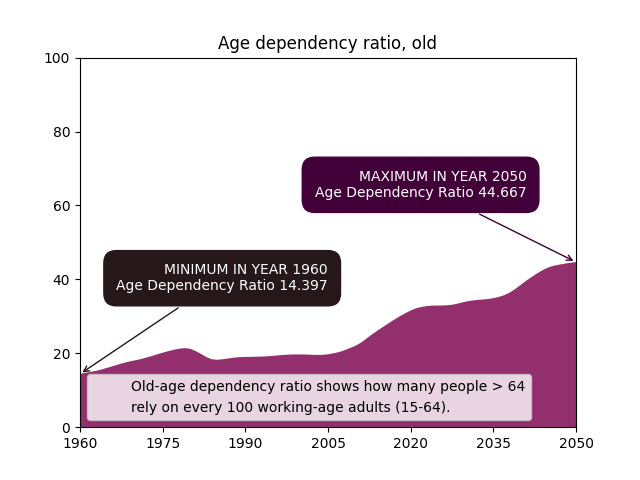
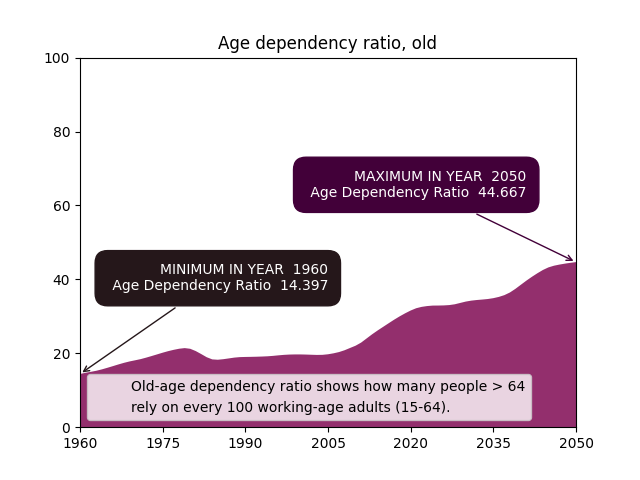
Urban a Rural population added

diff --git a/population.py b/population.py
@@ -5,7 +5,7 @@ import matplotlib.pyplot as plt                 # Import matplotlib for plotting
 from matplotlib.patches import Rectangle        # Import Rectangle for legend and description
 import numpy as np                              # Import numpy for numerical operations
 
-def annot_max(x,y, color, textcolor, ax=None):
+def annot_max(x,y, color, textcolor, desc, ax=None):
     """
     Annotates the maximum value in a data array (`y`) value on a Matplotlib plot (`ax`).
 
@@ -14,6 +14,7 @@ def annot_max(x,y, color, textcolor, ax=None):
         y (numpy.ndarray): The y-axis data array (corresponding values).
         color (str): The color for the annotation box and arrow.
         textcolor (str): The color for the annotation text.
+        desc (str): 
         ax (matplotlib.axes._axes.Axes, optional): The Matplotlib axes object for the plot.
             If not provided, the current axes (plt.gca()) is used.
 
@@ -28,7 +29,7 @@ def annot_max(x,y, color, textcolor, ax=None):
 
     # Format the annotation text including the year with the maximum value
     # and the corresponding age dependency ratio
-    text= "MAXIMUM IN YEAR {}\nAge Dependency Ratio {:.3f}".format(xmax, ymax)
+    text= "MAXIMUM IN YEAR  {}\n {}  {:.3f}".format(xmax, desc, ymax)
 
     # Check if an axes object (ax) is provided. If not, retrieve the current axes.
     if not ax:
@@ -51,8 +52,10 @@ def annot_max(x,y, color, textcolor, ax=None):
     ytext = ymax/100 + 0.25
 
     # Adjust the horizontal text position (xytext) based on the year (xmax)
-    if int(xmax) > 1990:
+    if int(xmax) > 1990 and ymax < 80:
         xytext = (0.9, ytext)  # Place text at the right side for better readability
+    elif int(xmax) > 1990 and ymax >= 80:
+        xytext = (0.9, ytext - 0.5)  # Place text at the right side for better readability
     else:
         xytext = (0.5, ytext)  # Center the text for years before 1991
 
@@ -60,7 +63,7 @@ def annot_max(x,y, color, textcolor, ax=None):
     ax.annotate(text, xy=(xmax, ymax), xytext=xytext, **kw)
 
 
-def annot_min(x,y, color, textcolor, ax=None):
+def annot_min(x,y, color, textcolor, desc, ax=None):
     """
     Annotates the minimum value in a data array (`y`) on a Matplotlib plot (`ax`).
 
@@ -84,7 +87,7 @@ def annot_min(x,y, color, textcolor, ax=None):
 
     # Format the annotation text including the year with the minimum value
     # and the corresponding age dependency ratio
-    text= "MINIMUM IN YEAR {}\nAge Dependency Ratio {:.3f}".format(xmin, ymin)
+    text= "MINIMUM IN YEAR  {}\n {}  {:.3f}".format(xmin, desc, ymin)
 
     # Check if an axes object (ax) is provided. If not, retrieve the current axes.
     if not ax:
@@ -146,8 +149,9 @@ def plot_sp_pop_dpnd(df_czechia):
     extra = Rectangle((0, 0), 1, 1, fc="w", fill=False, edgecolor='none', linewidth=0)
     plt.legend([extra, extra],[text1, text2], loc='lower left')
 
-    annot_max(x_sp_pop_dpnd, y_sp_pop_dpnd, "#1D0200", "white")
-    annot_min(x_sp_pop_dpnd, y_sp_pop_dpnd, "#5A1807", "white")
+    desc = "Age Dependency Ratio"
+    annot_max(x_sp_pop_dpnd, y_sp_pop_dpnd, "#1D0200", "white", desc)
+    annot_min(x_sp_pop_dpnd, y_sp_pop_dpnd, "#5A1807", "white", desc)
 
     # Display the plot
     plt.show()
@@ -182,8 +186,9 @@ def plot_sp_pop_dpnd_ol(df_czechia):
     extra = Rectangle((0, 0), 1, 1, fc="w", fill=False, edgecolor='none', linewidth=0)
     plt.legend([extra, extra],[text1, text2], loc='lower left')
 
-    annot_max(x_sp_pop_dpnd_ol, y_sp_pop_dpnd_ol, "#420039", "white")
-    annot_min(x_sp_pop_dpnd_ol, y_sp_pop_dpnd_ol, "#25171A", "white")
+    desc = "Age Dependency Ratio"
+    annot_max(x_sp_pop_dpnd_ol, y_sp_pop_dpnd_ol, "#420039", "white", desc)
+    annot_min(x_sp_pop_dpnd_ol, y_sp_pop_dpnd_ol, "#25171A", "white", desc)
 
 
     # Display the plot
@@ -205,7 +210,7 @@ def plot_sp_pop_dpnd_yg(df_czechia):
 
     # Create the plot
     fig, ax = plt.subplots()
-    ax.stackplot(x_sp_pop_dpnd_yg, y_sp_pop_dpnd_yg, colors=["#7B904B"])
+    ax.stackplot(x_sp_pop_dpnd_yg, y_sp_pop_dpnd_yg, colors=["#768948"])
  
     # Set plot limits and labels
     ax.set_xlim(min(x_sp_pop_dpnd_yg), max(x_sp_pop_dpnd_yg))
@@ -219,8 +224,81 @@ def plot_sp_pop_dpnd_yg(df_czechia):
     extra = Rectangle((0, 0), 1, 1, fc="w", fill=False, edgecolor='none', linewidth=0)
     plt.legend([extra, extra],[text1, text2], loc='lower left')
 
-    annot_max(x_sp_pop_dpnd_yg, y_sp_pop_dpnd_yg, "#273B09", "white")
-    annot_min(x_sp_pop_dpnd_yg, y_sp_pop_dpnd_yg, "#393E41", "white")
+    desc = "Age Dependency Ratio"
+    annot_max(x_sp_pop_dpnd_yg, y_sp_pop_dpnd_yg, "#1E2F23", "white", desc)
+    annot_min(x_sp_pop_dpnd_yg, y_sp_pop_dpnd_yg, "#34623F", "white", desc)
+
+    # Display the plot
+    plt.show()
+
+
+def plot_sp_rur_totl_zs(df_czechia):
+    """
+    This function plots the rural population (SP.RUR.TOTL.ZS) of the Czech Republic as a percentage
+    of the total population over time.
+    Args:
+        df_czechia (pandas.DataFrame): A DataFrame containing data for the Czech Republic.
+    """
+
+    # Extract data for plotting 
+    x_sp_pop_totl = df_czechia.index.to_numpy()
+    y_sp_pop_totl = df_czechia["SP.RUR.TOTL.ZS"].to_numpy() 
+
+    # Create the plot
+    fig, ax = plt.subplots()
+    ax.stackplot(x_sp_pop_totl, y_sp_pop_totl, colors=["#C8963E"])
+ 
+    # Set plot limits and labels
+    ax.set_xlim(min(x_sp_pop_totl), max(x_sp_pop_totl))
+    ax.set_xticks([min(x_sp_pop_totl), '1975', '1990', '2005', '2020', '2035', max(x_sp_pop_totl)])
+    ax.set_ylim(0, 100)
+    ax.set_title("Rural population (% Of Total Population)")
+
+    # Add informative legend using Rectangle for aesthetics
+    text1 = "Rural population refers to people living in rural areas"
+    text2 = "as defined by national statistical offices."
+    extra = Rectangle((0, 0), 1, 1, fc="w", fill=False, edgecolor='none', linewidth=0)
+    plt.legend([extra, extra],[text1, text2], loc='lower left')
+
+    desc = "Rural Population [%]"
+    annot_max(x_sp_pop_totl, y_sp_pop_totl, "#573D1C", "white", desc)
+    annot_min(x_sp_pop_totl, y_sp_pop_totl, "#D1462F", "white", desc)
+
+    # Display the plot
+    plt.show()
+
+
+def plot_sp_urb_totl_in_zs(df_czechia):
+    """
+    This function plots the urban population (SP.URB.TOTL.IN.ZS) of the Czech Republic as a percentage
+    of the total population over time.
+    Args:
+        df_czechia (pandas.DataFrame): A DataFrame containing data for the Czech Republic.
+    """
+
+    # Extract data for plotting 
+    x_sp_pop_totl = df_czechia.index.to_numpy()
+    y_sp_pop_totl = df_czechia["SP.URB.TOTL.IN.ZS"].to_numpy() 
+
+    # Create the plot
+    fig, ax = plt.subplots()
+    ax.stackplot(x_sp_pop_totl, y_sp_pop_totl, colors=["#BFC0C0"])
+ 
+    # Set plot limits and labels
+    ax.set_xlim(min(x_sp_pop_totl), max(x_sp_pop_totl))
+    ax.set_xticks([min(x_sp_pop_totl), '1975', '1990', '2005', '2020', '2035', max(x_sp_pop_totl)])
+    ax.set_ylim(0, 100)
+    ax.set_title("Urban population (% Of Total Population)")
+
+    # Add informative legend using Rectangle for aesthetics
+    text1 = "Urban population refers to people living in urban areas"
+    text2 = "as defined by national statistical offices."
+    extra = Rectangle((0, 0), 1, 1, fc="w", fill=False, edgecolor='none', linewidth=0)
+    plt.legend([extra, extra],[text1, text2], loc='lower left')
+
+    desc = "Urban Population [%]"
+    annot_max(x_sp_pop_totl, y_sp_pop_totl, "#2D3142", "white", desc)
+    annot_min(x_sp_pop_totl, y_sp_pop_totl, "#4F5D75", "white", desc)
 
     # Display the plot
     plt.show()
@@ -250,10 +328,12 @@ def main():
     # Transpose the DataFrame for easier access (optional, depending on data structure)
     df_czechia = df_czechia.T
 
-    # Generate plots for different dependency ratios
+    # Generate plots
     plot_sp_pop_dpnd(df_czechia)        # Overall dependency ratio
     plot_sp_pop_dpnd_ol(df_czechia)     # Old-age dependency ratio
     plot_sp_pop_dpnd_yg(df_czechia)     # Young dependency ratio
+    plot_sp_rur_totl_zs(df_czechia)     # Rural population (% of total population)
+    plot_sp_urb_totl_in_zs(df_czechia)  # Urban population (% of total population)
 
 
 if __name__ == "__main__":
